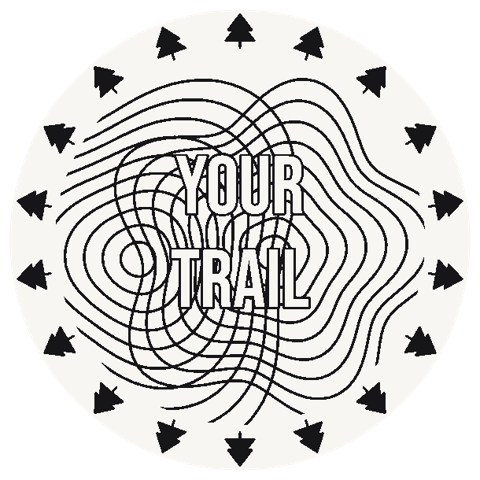
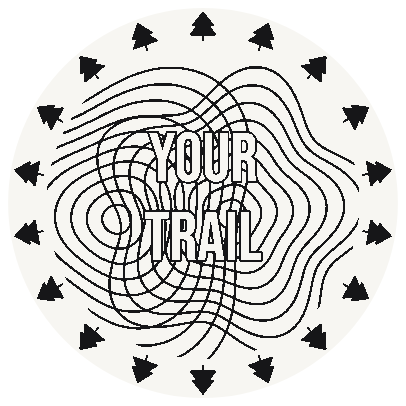
Make Bike a third tab on the stickers page, with smaller templates
The Bike tab is the thermal maker with a strip of bike templates to start
from; /stickers/#bike and ?preset= open it. Frame name and emergency ID
are now 50 x 30 mm labels and the trail sticker a 2" round. The /bike
page stays as the clubs and teams page, linked from the tab, and leaves
the header.

Claude-Session: https://claude.ai/code/session_01FGhJQscdWbW24RhbjkzoEj

diff --git a/src/stickers/StickerStudio.jsx b/src/stickers/StickerStudio.jsx
@@ -17,7 +17,7 @@ import { FONTS, fontOf } from "./fonts.js";
 import { removeBackground, warmUp } from "./cutout.js";
 import { prepareArt } from "./colour.js";
 import { AiSticker, STICKER_AI } from "./AiSticker.jsx";
-import { presetOf } from "./presets.js";
+import { PRESETS, presetOf } from "./presets.js";
 
 
 // The cart lives in this browser, so it survives a reload or a trip to Stripe
@@ -112,23 +112,29 @@ function Label({ children, hint }) {
   );
 }
 
-// The two makers on this page: thermal labels (one ink, preset label sizes,
-// the quickest and cheapest) and full-colour stickers cut to any shape on
-// the Cricut (ColourStudio.jsx). #colour in the address opens the second.
+// The tabs on this page: thermal labels (one ink, preset label sizes, the
+// quickest and cheapest), full-colour stickers cut to any shape on the Cricut
+// (ColourStudio.jsx), and bike stickers: the thermal maker with ready-made
+// bike templates (presets.js) to start from. #colour or #bike in the address
+// opens those tabs.
 const MODES = [
   { key: "thermal", name: "Thermal labels", sub: "Black ink on die-cut labels · cheapest" },
   { key: "colour", name: "Full colour, custom cut", sub: "Any image, any shape, cut to fit", soon: !stickers.colour.available },
+  { key: "bike", name: "Bike", sub: "Frame names, trail stickers, ID" },
 ];
 
 export function StickerStudio() {
   const [maker, setMakerState] = useState("thermal");
   useEffect(() => {
     if (location.hash === "#colour") setMakerState("colour");
+    if (location.hash === "#bike" || new URLSearchParams(location.search).has("preset")) setMakerState("bike");
   }, []);
   const setMaker = (m) => {
     setMakerState(m);
-    history.replaceState(null, "", m === "colour" ? "#colour" : location.pathname + location.search);
+    history.replaceState(null, "", m === "thermal" ? location.pathname + location.search : `#${m}`);
   };
+  // Thermal labels and Bike share the thermal maker.
+  const thermal = maker !== "colour";
   const canvasRef = useRef(null);
   const flatRef = useRef(null);
   const fileRef = useRef(null);
@@ -168,15 +174,19 @@ export function StickerStudio() {
   // image.
   useEffect(() => {
     const preset = presetOf(new URLSearchParams(location.search).get("preset"));
-    if (preset) {
-      setD((cur) => ({ ...cur, ...preset.design }));
-      setLayers(preset.layers.map((l) => ({ ...l, id: newId() })));
-      return;
-    }
+    if (preset) return applyPreset(preset);
     loadImage("/stickers/sample.png")
       .then((img) => setLayers((ls) => (ls.length ? ls : [imageLayer(img)])))
       .catch(() => {});
   }, []);
+
+  // A bike template replaces the design (label, background, ring and layers).
+  function applyPreset(preset) {
+    setD((cur) => ({ ...cur, ...preset.design }));
+    setLayers(preset.layers.map((l) => ({ ...l, id: newId() })));
+    setSelected(null);
+    setFileName("");
+  }
 
   const stock = sizeOf(d.sizeKey);
   const size = useMemo(() => ({ w: stock.w, h: stock.h }), [stock]);
@@ -202,12 +212,12 @@ export function StickerStudio() {
   useEffect(() => {
     // While editing, the 3D view is hidden: catch it up when editing ends.
     // On the full-colour maker it's hidden too, and paused.
-    if (!ready || !view || editing || maker !== "thermal") return;
+    if (!ready || !view || editing || !thermal) return;
     stage.current.update({ art: view, w: size.w, h: size.h, crop, finish, paper });
     stage.current.onCardClick(() => setRealCard((r) => !r));
     stage.current.onStickerClick(() => setEditing(true));
     stage.current.start();
-  }, [ready, view, size, crop, finish, paper, stage, editing, maker]);
+  }, [ready, view, size, crop, finish, paper, stage, editing, thermal]);
 
   useEffect(() => {
     if (ready) stage.current.cardLook(realCard);
@@ -424,13 +434,15 @@ export function StickerStudio() {
           <p className="eyebrow">Stickers</p>
           <h1 className="mt-3 text-4xl font-bold sm:text-5xl">Your image, as a sticker.</h1>
           <p className="mt-4 text-ink/65 sm:text-lg">
-            {maker === "thermal"
+            {maker === "bike"
+              ? "Stickers for your bike: start from a template, make it yours, and see it to scale. Printed in crisp black on die-cut labels."
+              : maker === "thermal"
               ? "Thermal printed in crisp black on die-cut labels. Drop in an image or type some text, pick a label and a border, and see it to scale."
               : "Printed in full colour on vinyl and cut to any shape: around your design, or as a circle or square. Pick a size and see it to scale."}
           </p>
         </div>
 
-        <div className="mt-8 grid max-w-2xl grid-cols-2 gap-2 rounded-2xl bg-white p-1.5 ring-1 ring-ink/10" role="tablist">
+        <div className="mt-8 grid max-w-3xl grid-cols-1 gap-2 rounded-2xl sm:grid-cols-3 bg-white p-1.5 ring-1 ring-ink/10" role="tablist">
           {MODES.map((m) => (
             <button
               key={m.key}
@@ -469,7 +481,36 @@ export function StickerStudio() {
 
         {/* Thermal maker: kept mounted (hidden) on the colour tab so its 3D
             stage survives the switch. */}
-        <div className={clsx("mt-10 grid gap-6 lg:grid-cols-[1.4fr_1fr] lg:gap-10", maker !== "thermal" && "hidden")}>
+        {maker === "bike" && (
+          <div className="mt-8">
+            <div className="flex flex-wrap items-baseline justify-between gap-2">
+              <p className="text-sm font-semibold">Start from a template</p>
+              <a href="/bike/#clubs" className="text-sm font-medium text-ink/60 underline decoration-flame underline-offset-4 hover:text-flame">
+                Ordering for a club or team?
+              </a>
+            </div>
+            <div className="mt-3 grid gap-3 sm:grid-cols-3">
+              {Object.entries(PRESETS).map(([key, p]) => (
+                <button
+                  key={key}
+                  type="button"
+                  onClick={() => applyPreset(p)}
+                  className="flex items-center gap-3 rounded-2xl bg-white p-3 text-left ring-1 ring-ink/10 transition hover:ring-ink/40"
+                >
+                  <span className="flex h-14 w-16 flex-none items-center justify-center rounded-xl bg-[#e9efe9] p-1.5">
+                    <img src={`/bike/${key}.png`} alt="" className="max-h-full max-w-full" />
+                  </span>
+                  <span className="min-w-0 text-sm">
+                    <span className="block font-semibold">{p.name}</span>
+                    <span className="block text-xs text-ink/55">{p.blurb}</span>
+                  </span>
+                </button>
+              ))}
+            </div>
+          </div>
+        )}
+
+        <div className={clsx("grid gap-6 lg:grid-cols-[1.4fr_1fr] lg:gap-10", maker === "bike" ? "mt-6" : "mt-10", !thermal && "hidden")}>
           {/* Stage: stays in view while the options scroll past */}
           <div className="flex min-w-0 flex-col gap-4 lg:sticky lg:top-20 lg:self-start">
             <div className="relative aspect-square overflow-hidden rounded-3xl bg-ink ring-1 ring-ink/10 sm:aspect-[4/3]">
@@ -901,7 +942,7 @@ export function StickerStudio() {
               </button>
             </div>
 
-            {maker === "thermal" && cartPanel}
+            {thermal && cartPanel}
             {!cart.length && (
               <button
                 type="button"

diff --git a/src/stickers/presets.js b/src/stickers/presets.js
@@ -1,5 +1,5 @@
-// Ready-made starting points for the thermal maker, opened from other pages
-// with /stickers/?preset=<key> (the /bike page links to these). Each sets the
+// Ready-made starting points for the thermal maker: the Bike tab's templates
+// on /stickers, also opened with /stickers/?preset=<key>. Each sets the
 // label and its background, and puts in text to change; anything can still
 // be changed after. Text sizes follow thermal.js: `size` is the cap height
 // as a share of the label's width, x and y are from its centre.
@@ -8,21 +8,24 @@ const text = (t) => ({ kind: "text", x: 0, y: 0, scale: 1, rot: 0, style: "solid
 export const PRESETS = {
   "frame-name": {
     name: "Frame name decal",
-    design: { sizeKey: "4x2in", pattern: "none", ring: "none" },
-    layers: [text({ text: "YOUR NAME", font: "Bungee", size: 0.11 })],
+    blurb: "Your name for the top tube",
+    design: { sizeKey: "50x30", pattern: "none", ring: "none" },
+    layers: [text({ text: "YOUR NAME", font: "Bungee", size: 0.12 })],
   },
   trail: {
     name: "Trail sticker",
-    design: { sizeKey: "round-3in", pattern: "topo", patternSeed: 12, ring: "pine" },
+    blurb: "Your trail over topo lines",
+    design: { sizeKey: "round-2in", pattern: "topo", patternSeed: 12, ring: "pine" },
     layers: [text({ text: "YOUR\nTRAIL", font: "Bebas Neue", size: 0.17, style: "cutout" })],
   },
   ice: {
     name: "Emergency ID",
-    design: { sizeKey: "60x40", pattern: "none", ring: "none" },
+    blurb: "A name and number, for the frame or helmet",
+    design: { sizeKey: "50x30", pattern: "none", ring: "none" },
     layers: [
-      text({ text: "IN CASE OF EMERGENCY", font: "Space Grotesk", weight: 700, size: 0.055, y: -0.2 }),
-      text({ text: "Your Name", font: "Space Grotesk", weight: 700, size: 0.09, y: 0 }),
-      text({ text: "604-555-0123", font: "Space Grotesk", weight: 700, size: 0.075, y: 0.19 }),
+      text({ text: "IN CASE OF EMERGENCY", font: "Space Grotesk", weight: 700, size: 0.06, y: -0.18 }),
+      text({ text: "Your Name", font: "Space Grotesk", weight: 700, size: 0.1, y: 0 }),
+      text({ text: "604-555-0123", font: "Space Grotesk", weight: 700, size: 0.085, y: 0.17 }),
     ],
   },
 };

diff --git a/src/bike/BikePage.jsx b/src/bike/BikePage.jsx
@@ -10,7 +10,7 @@ const TEMPLATES = [
   {
     key: "frame-name",
     title: "Frame name decal",
-    body: "Your name, or your bike's, for the top tube. A 4\" × 2\" label in any of six fonts.",
+    body: "Your name, or your bike's, for the top tube. A 50 × 30 mm label in any of six fonts.",
     img: "/bike/frame-name.png",
   },
   {
@@ -52,7 +52,7 @@ export function BikePage() {
             plates, mounts and the small parts that break on the trail.
           </p>
           <div className="mt-8 flex flex-wrap gap-3">
-            <a href="#templates" className="btn-primary">
+            <a href="/stickers/#bike" className="btn-primary">
               <Bike size={18} /> Design a bike sticker
             </a>
             <a href="#clubs" className="btn-outline-light">
@@ -67,8 +67,8 @@ export function BikePage() {
           <p className="eyebrow">Start from a template</p>
           <h2 className="mt-3 text-3xl font-bold sm:text-4xl">Pick one, make it yours.</h2>
           <p className="mt-3 max-w-2xl text-ink/65">
-            Each opens in the sticker maker ready to edit: change the words, the font, the label or the border, and see
-            it to scale before you order.
+            Each opens in the sticker maker's Bike tab, ready to edit: change the words, the font, the label or the
+            border, and see it to scale before you order.
           </p>
           <ul className="mt-8 grid gap-5 md:grid-cols-3">
             {TEMPLATES.map((t) => (

diff --git a/src/components/Header.jsx b/src/components/Header.jsx
@@ -9,7 +9,6 @@ const NAV = [
   { href: "#work", label: "Work" },
   { href: "#materials", label: "Materials" },
   { href: "/stickers/", label: "Stickers" },
-  { href: "/bike/", label: "Bike" },
 ];
 
 // On other pages (home="/") the section links point back at the home page.
